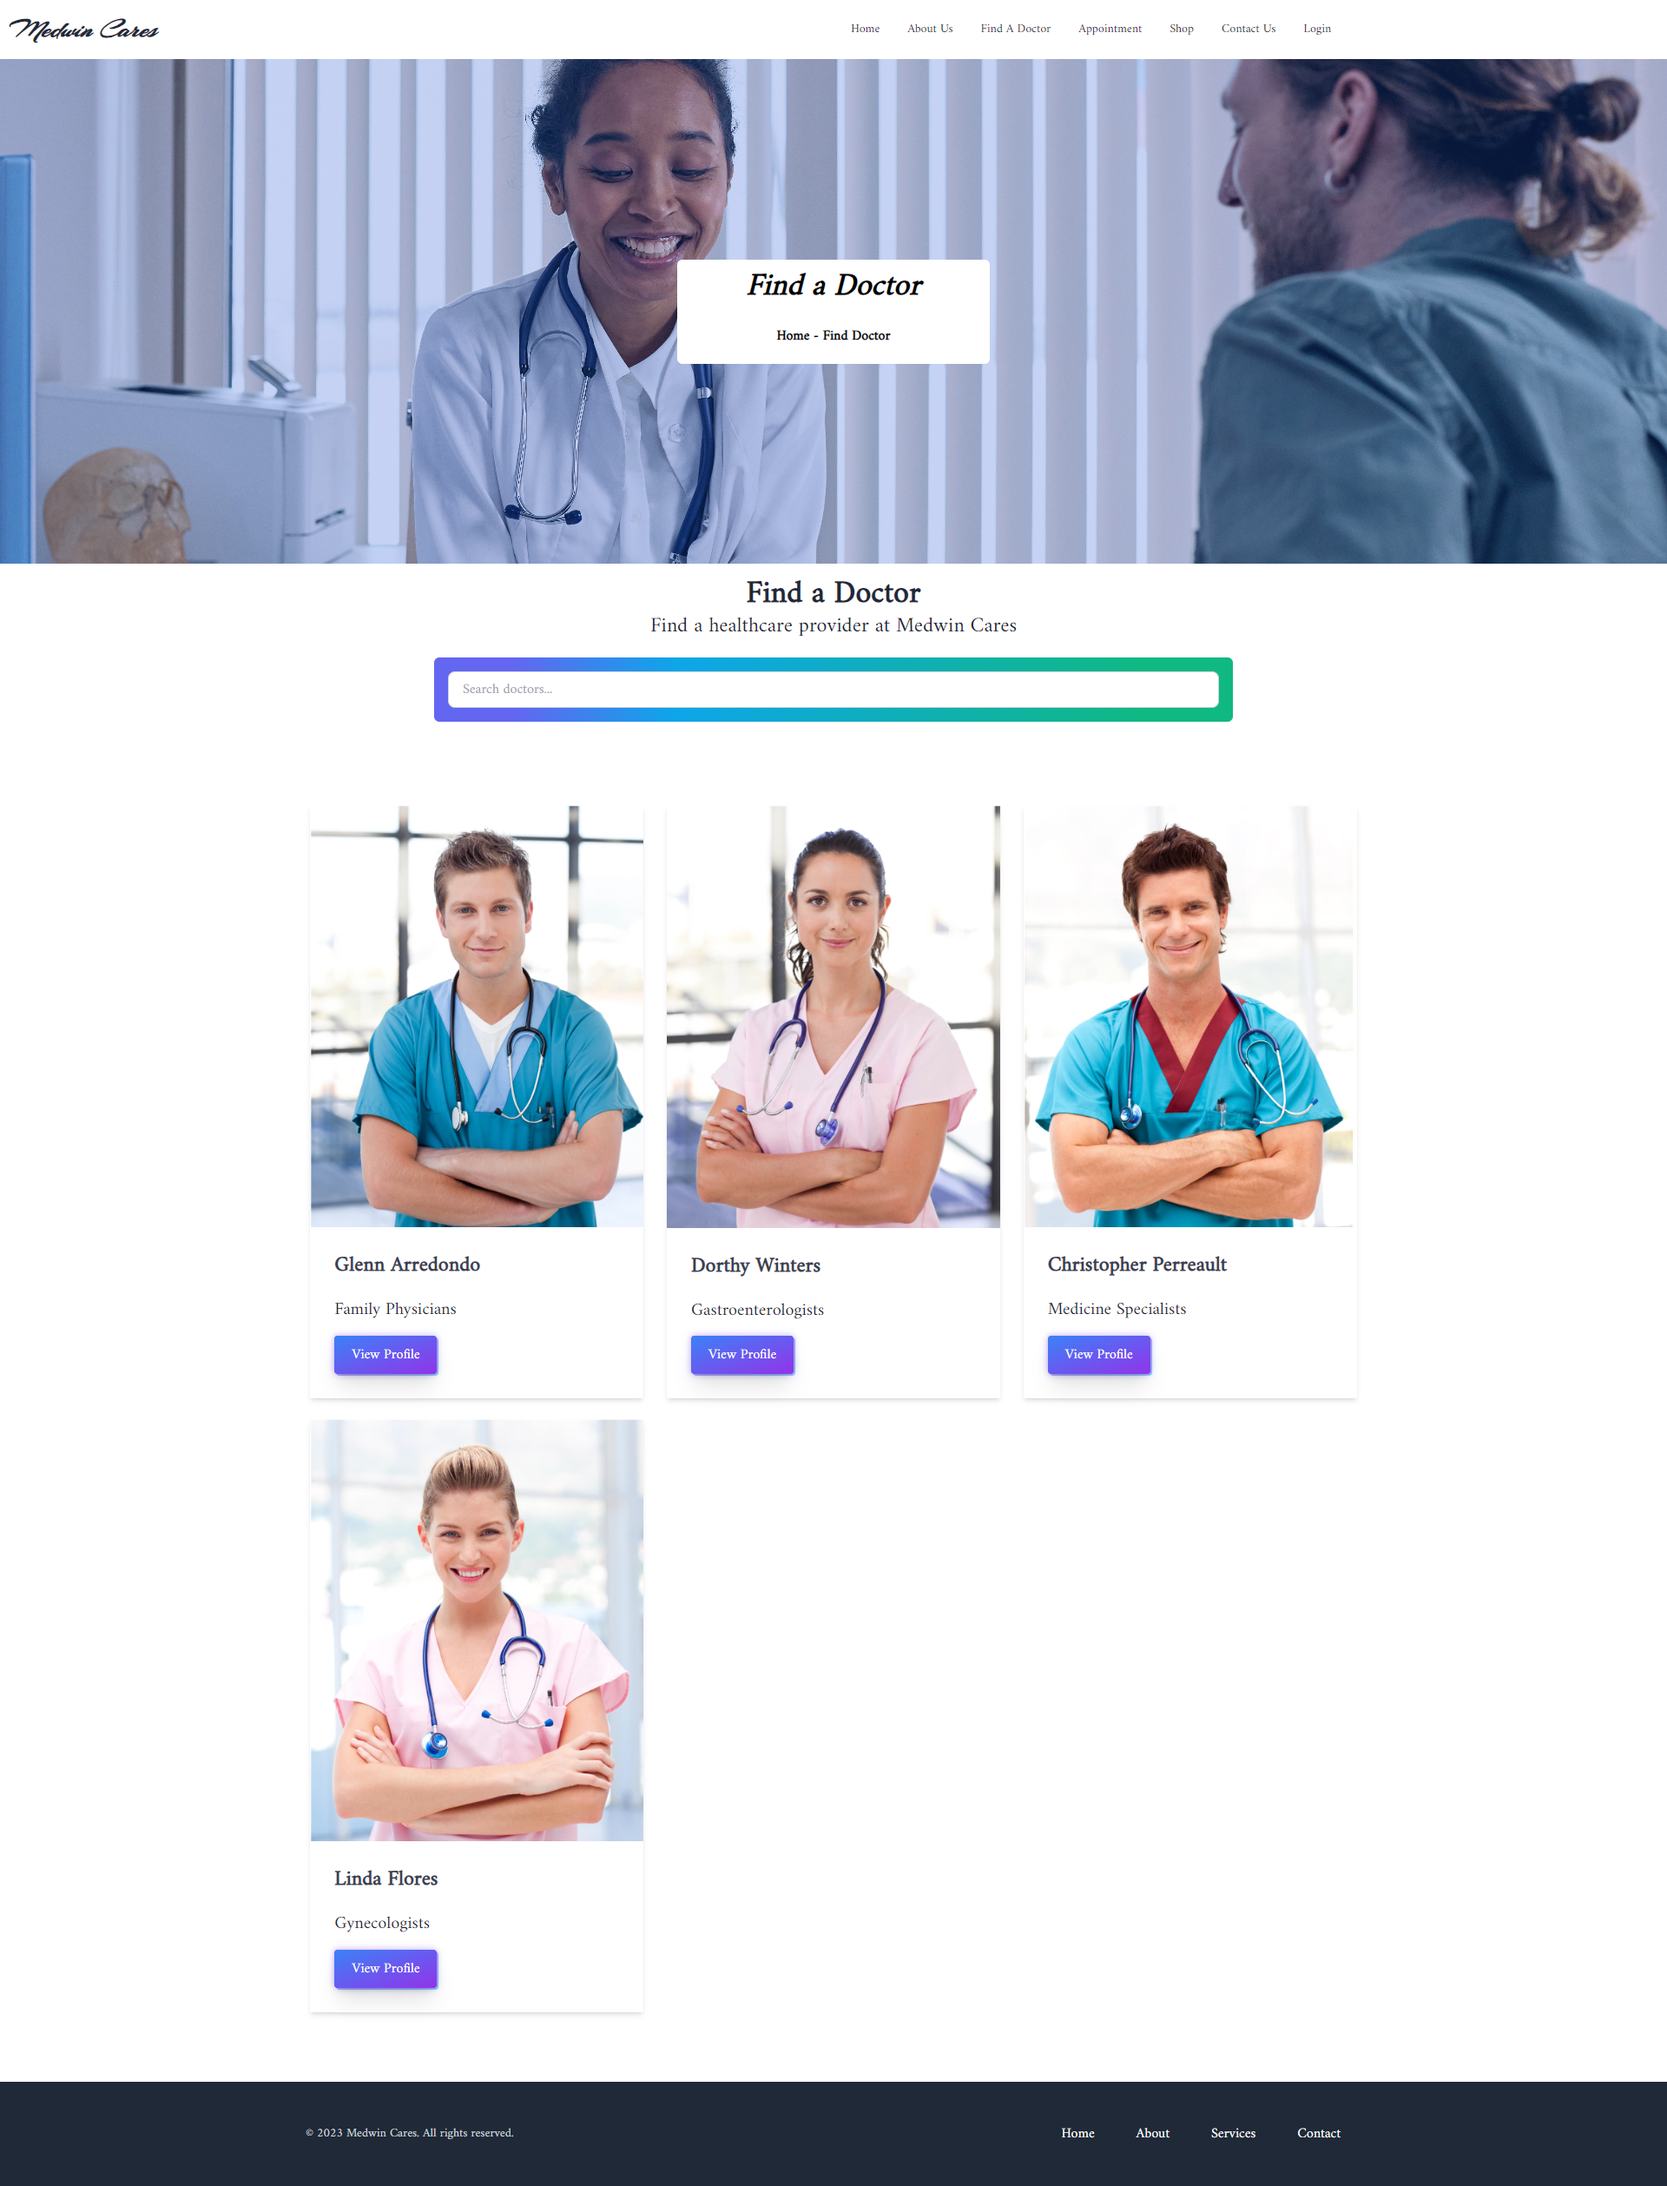
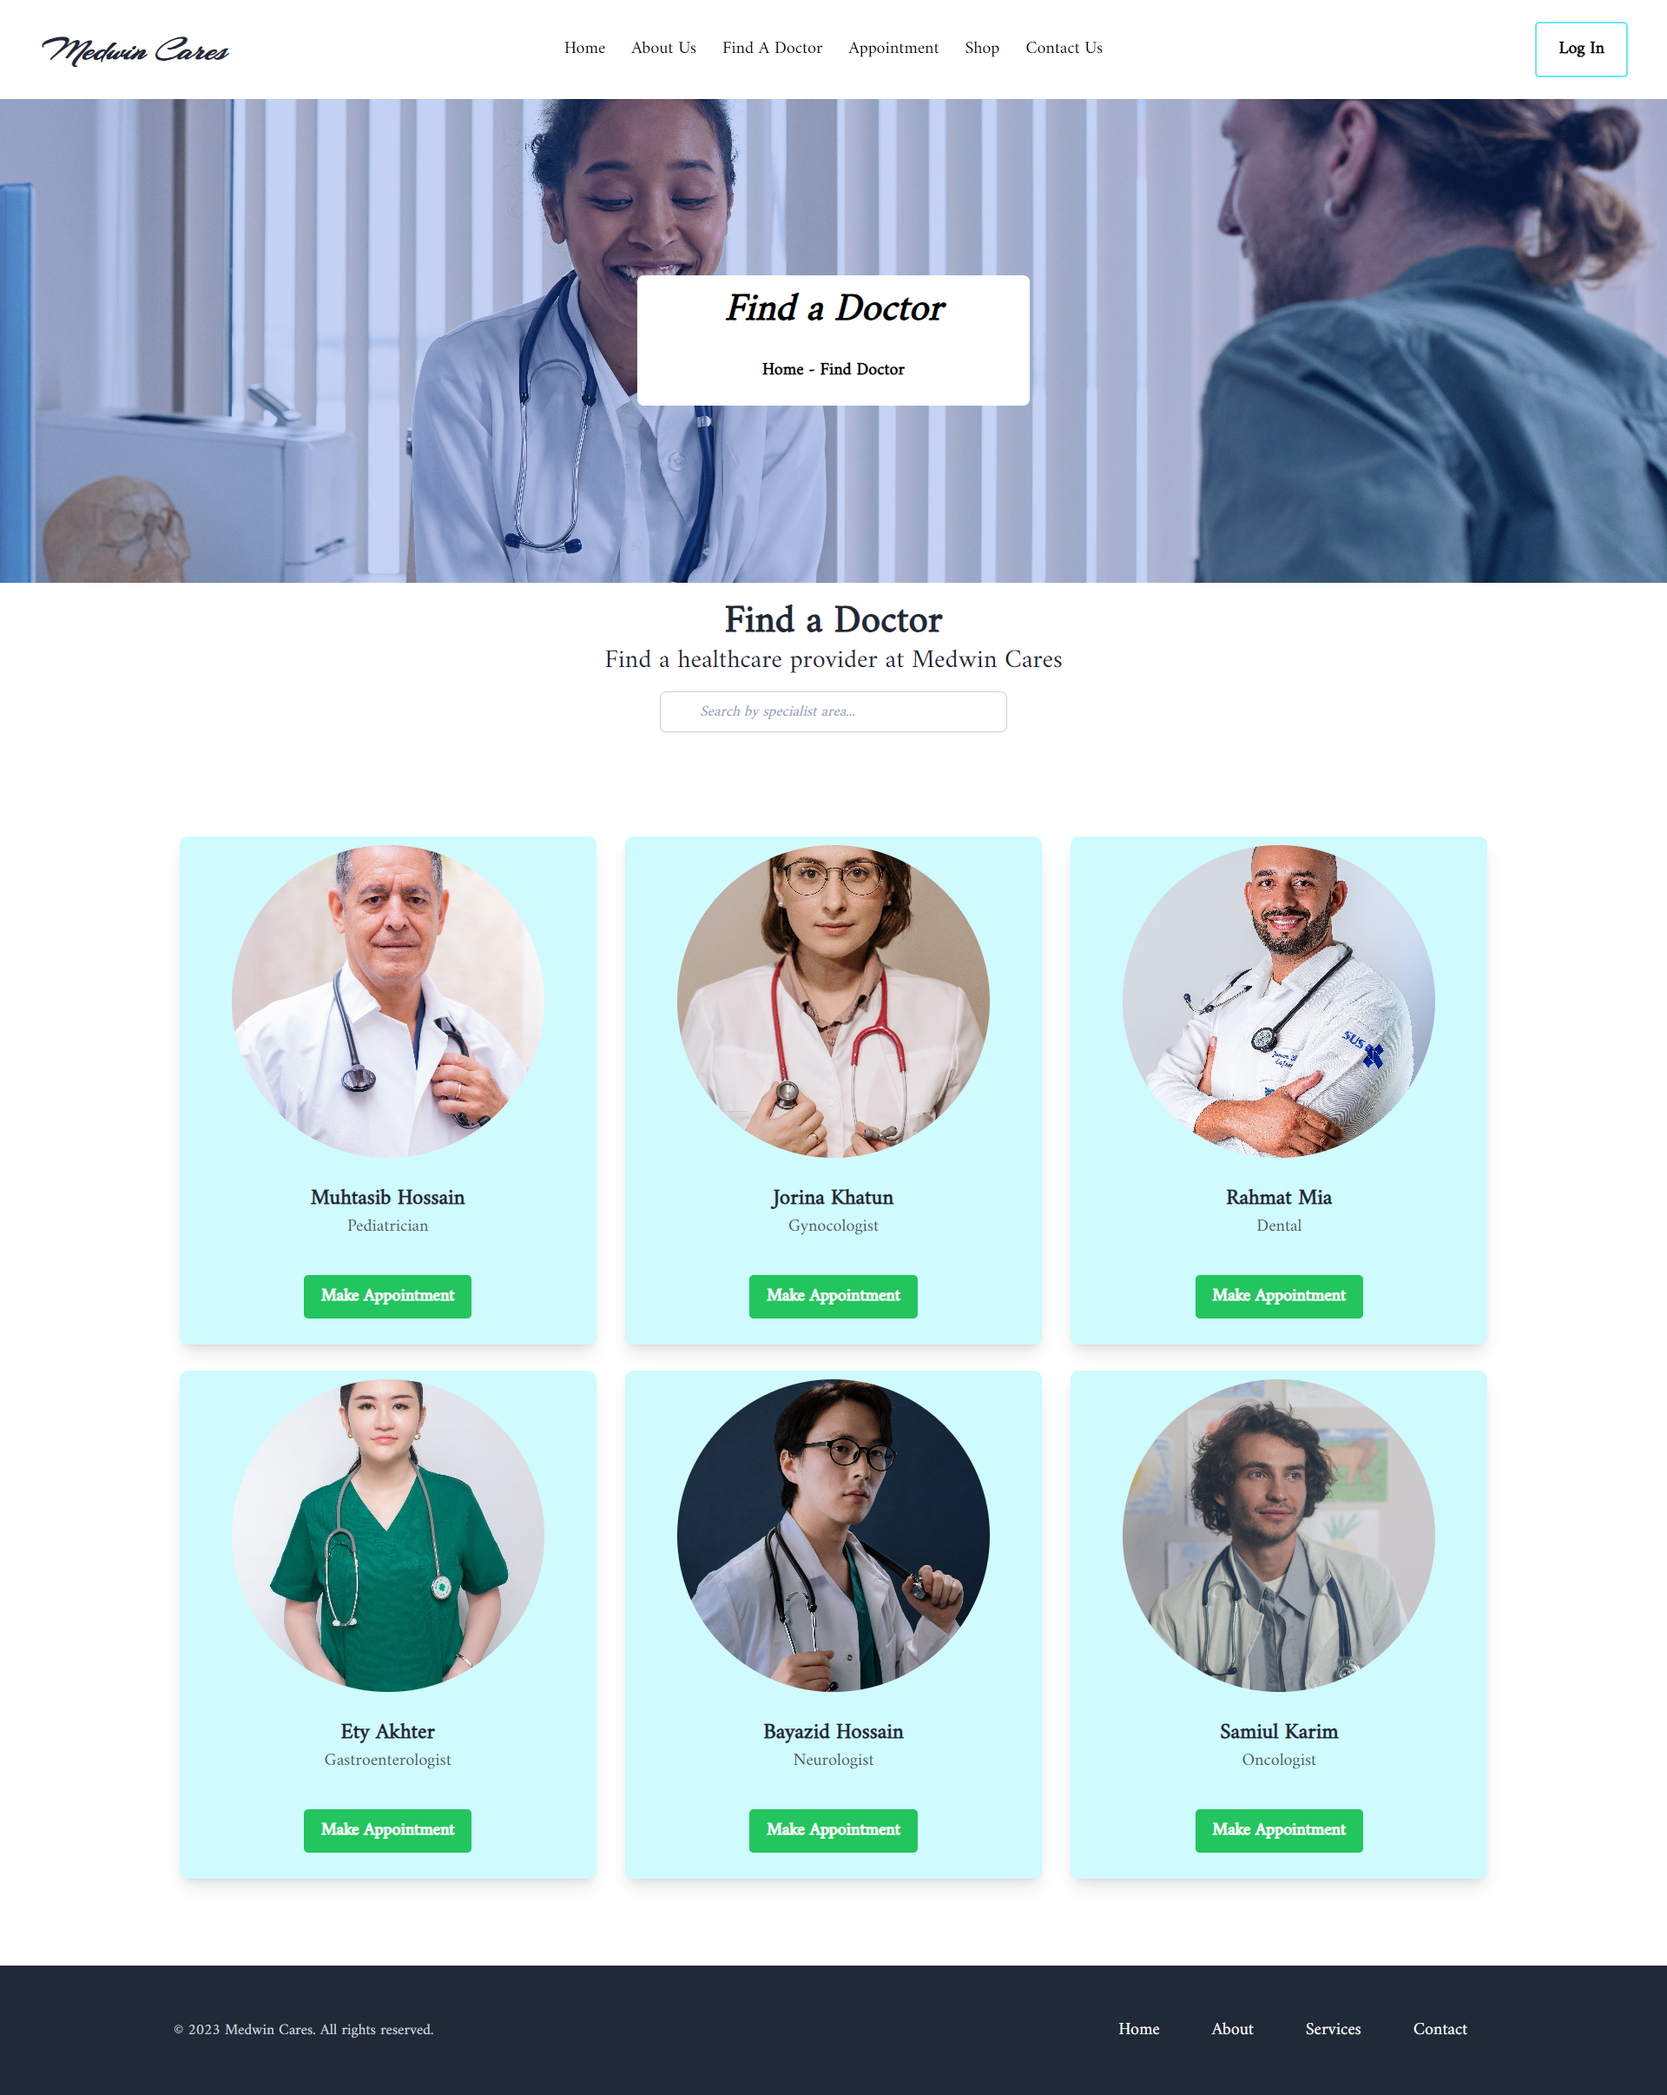
readme image changes

diff --git a/src/Shared/Navbar/Navbar.js b/src/Shared/Navbar/Navbar.js
@@ -1,6 +1,7 @@
 import React, { useContext, useState } from "react";
 import { Link } from "react-router-dom";
 import { AuthContext } from "../../context/AuthProvider";
+import { HiOutlineUser } from "react-icons/hi";
 
 export default function Index() {
   const { user, logOut } = useContext(AuthContext);
@@ -20,8 +21,8 @@ export default function Index() {
         <Link to='/about'>About Us</Link>
       </li>
       <li>
-                <Link to='/doctors'>Find A Doctor</Link>
-            </li>
+        <Link to='/doctors'>Find A Doctor</Link>
+      </li>
       <li>
         <Link to='/appointments'>Appointment</Link>
       </li>
@@ -31,38 +32,70 @@ export default function Index() {
       <li>
         <Link to='/contact'>Contact Us</Link>
       </li>
-      {user?.uid ?
-        <>
-          <li><Link to="/dashboard">Dashboard</Link></li>
-          <li><button onClick={handleLogOut}>Sign Out</button></li>
-        </>
-        :
-        <li><Link to="/login">Login</Link></li>}
     </React.Fragment>
   )
 
   return (
-    <div className=" dark:bg-gray-900">
-      <div className="navbar">
+    <div className="dark:bg-gray-900">
+      <div className="navbar text-black py-5 px-9">
         <div className="navbar-start">
           <div className="dropdown">
             <label tabIndex={0} className="btn btn-ghost lg:hidden">
               <svg xmlns="http://www.w3.org/2000/svg" className="h-5 w-5" fill="none" viewBox="0 0 24 24" stroke="currentColor"><path strokeLinecap="round" strokeLinejoin="round" strokeWidth="2" d="M4 6h16M4 12h8m-8 6h16" /></svg>
             </label>
-            <ul tabIndex={1} className="menu menu-sm dropdown-content mt-3 z-[1] p-2 shadow bg-base-100 rounded-box w-52">
+            <ul tabIndex={0} className="menu menu-sm dropdown-content mt-3 z-[1] p-2 shadow bg-[#2B3440] rounded-box w-52">
               {menuItem}
             </ul>
           </div>
           <Link to='/' className="text-3xl font-bold italic text-gray-800 dark:text-white nav-title">Medwin Cares</Link>
         </div>
         <div className="navbar-center hidden lg:flex">
-          <ul className="menu menu-horizontal px-1">
+          <ul className="flex gap-6  px-1">
             {menuItem}
           </ul>
         </div>
-        <label htmlFor="dashboard-drawer" tabIndex={2} className="btn btn-ghost lg:hidden">
-          <svg xmlns="http://www.w3.org/2000/svg" className="h-5 w-5" fill="none" viewBox="0 0 24 24" stroke="currentColor"><path strokeLinecap="round" strokeLinejoin="round" strokeWidth="2" d="M4 6h16M4 12h8m-8 6h16" /></svg>
-        </label>
+        <div className="navbar-end">
+          {user?.uid ? (
+            <>
+
+              <div className="dropdown dropdown-hover">
+                <label tabIndex={0} className="rounded-full">
+                  {
+                    user?.photoURL ? (
+                      <>
+
+                        <div className="avatar">
+                          <div className="w-12 rounded-full">
+                            <img src={user.photoURL} alt='' />
+                          </div>
+                        </div>
+                      </>
+                    ) :
+                      (
+                        <HiOutlineUser className='text-2xl lg:mr-4' />
+                      )
+                  }
+                </label>
+                <ul tabIndex={0} className="dropdown-content z-[1] menu p-2 shadow bg-base-100 rounded-box -ml-24 w-44">
+                  <li>
+                    <Link to='/dashboard' className='text-black'>My Dashboard</Link>
+                  </li>
+                  <li>
+                    <Link to='/wishlist' className='text-black'>WishList</Link>
+                  </li>
+                  <li className='text-center'>
+                    <Link className='text-black text-center  px-5 py-3 font-semibold rounded' onClick={handleLogOut}>Log Out</Link>
+                  </li>
+                </ul>
+              </div>
+            </>
+          ) : (
+            <><Link to='/login'>
+              <button className='text-black border-2 hover:bg-cyan-300 border-cyan-300 px-5 py-3 font-semibold rounded'>Log In</button>
+            </Link></>
+          )}
+          <label htmlFor="dashboard-drawer" className=" btn btn-ghost lg:hidden"><svg xmlns="http://www.w3.org/2000/svg" className="h-5 w-5" fill="none" viewBox="0 0 24 24" stroke="currentColor"><path strokeLinecap="round" strokeLinejoin="round" strokeWidth="2" d="M4 6h16M4 12h8m-8 6h16" /></svg></label>
+        </div>
       </div>
     </div>
   );
